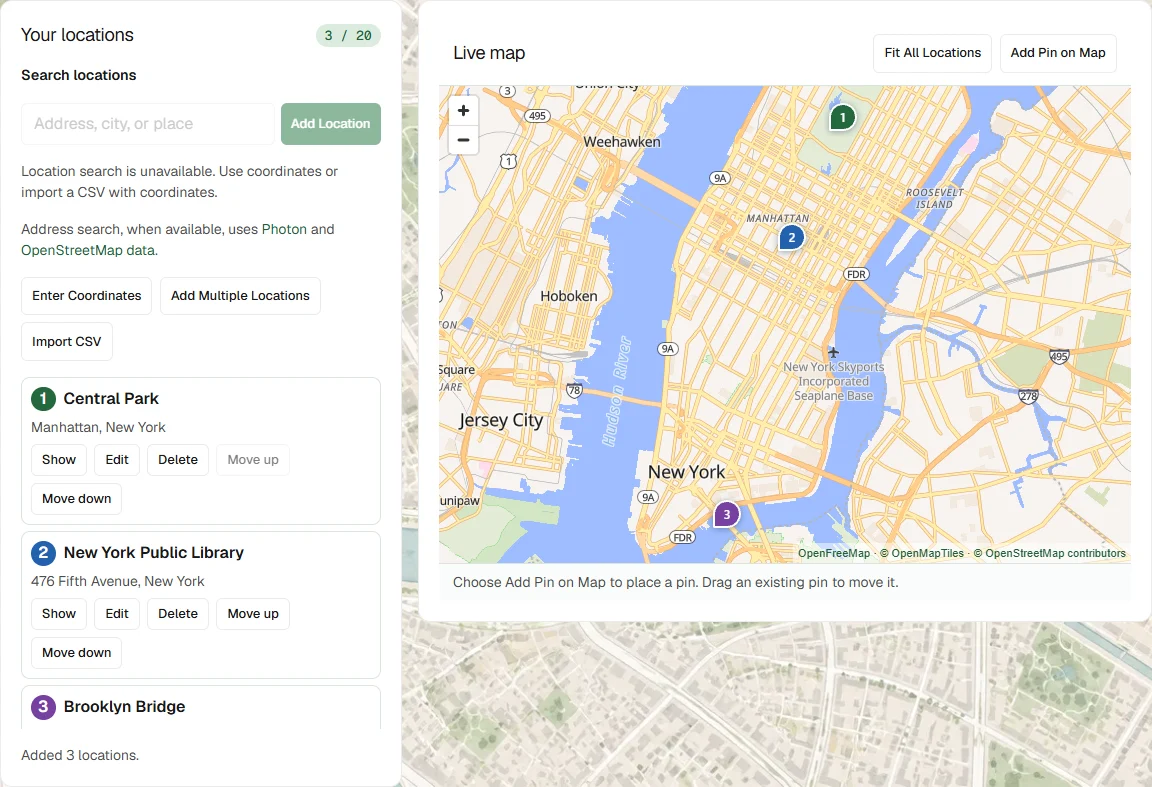
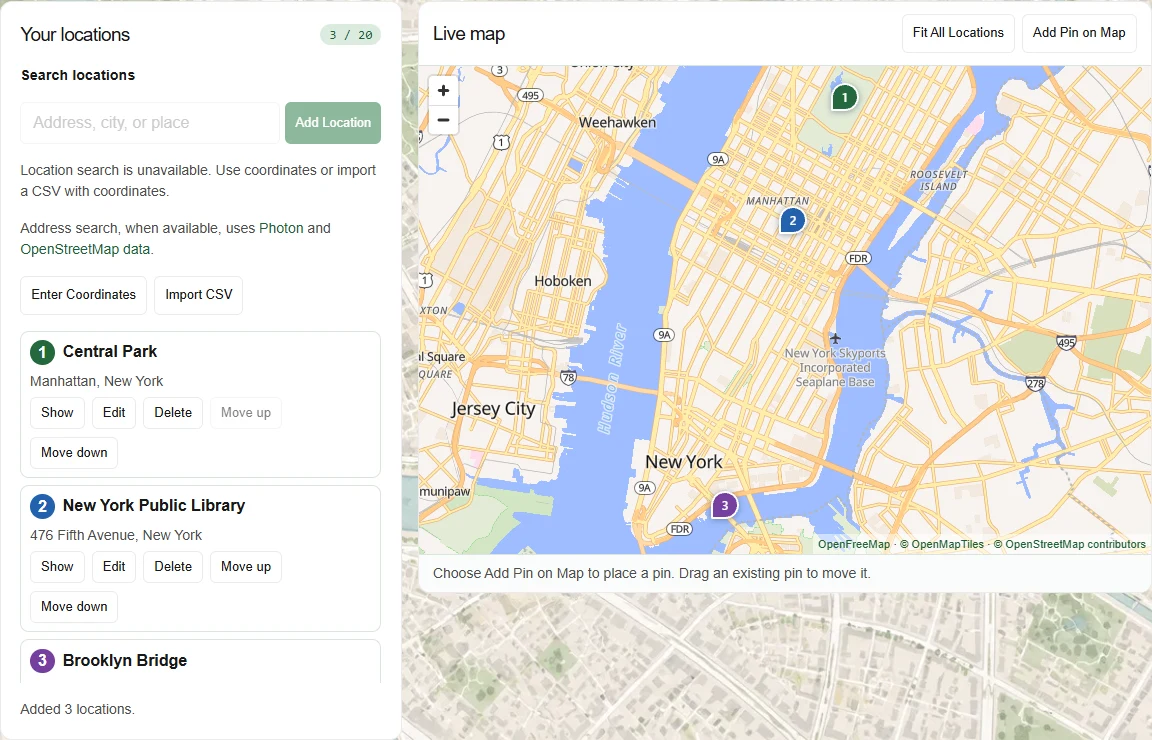
websited adding and manually address adding field removed from multiple map marker page

diff --git a/src/lib/multiple-maps/import-dialog.ts b/src/lib/multiple-maps/import-dialog.ts
@@ -1,7 +1,7 @@
 import type { Locale } from '../../i18n/config';
 import { editorCopy, formatMapMessage } from '../../i18n/map-editor';
 import { ApiError, createGeocoder, reason } from './client';
-import { csvRows, pasteRows, validateRow, type ImportRow } from './imports';
+import { csvRows, validateRow, type ImportRow } from './imports';
 import { markerSchema, MAX_CSV_BYTES, type GeocodeResult, type Marker, type PublicConfig } from './schema';
 
 const get = <T extends HTMLElement = HTMLElement>(id: string) => document.getElementById(`mm-${id}`) as T;
@@ -26,22 +26,8 @@ export function setupImport(geocoder: ReturnType<typeof createGeocoder>, config:
   const run = get<HTMLButtonElement>('run-import');
   const close = get<HTMLButtonElement>('close-import');
   const file = get<HTMLInputElement>('csv-file');
-  const lines = get<HTMLTextAreaElement>('lines');
-  let mode: 'paste' | 'csv';
   let rows: PendingRow[] = [];
   let busy = false;
-
-  function open(kind: typeof mode) {
-    mode = kind;
-    rows = [];
-    form.reset();
-    status.textContent = [formatMapMessage(copy.capacity, { count: capacity() }), config.geocodeBulk ? '' : copy.bulkUnavailable].filter(Boolean).join(' ');
-    get('import-heading').textContent = kind === 'csv' ? copy.csvHeading : copy.bulk;
-    get('csv-fields').hidden = kind !== 'csv';
-    get('paste-fields').hidden = kind !== 'paste';
-    render();
-    dialog.showModal();
-  }
 
   function render() {
     list.replaceChildren();
@@ -101,13 +87,18 @@ export function setupImport(geocoder: ReturnType<typeof createGeocoder>, config:
     run.textContent = rows.some((row) => row.done || row.issue) ? copy.retryRows : copy.addLocations;
   }
 
-  get('bulk').addEventListener('click', () => open('paste'));
-  get('csv').addEventListener('click', () => open('csv'));
+  get('csv').addEventListener('click', () => {
+    rows = [];
+    form.reset();
+    status.textContent = [formatMapMessage(copy.capacity, { count: capacity() }), config.geocodeBulk ? '' : copy.bulkUnavailable].filter(Boolean).join(' ');
+    render();
+    dialog.showModal();
+  });
   dialog.addEventListener('cancel', (event) => { if (busy) event.preventDefault(); });
 
   function setBusy(value: boolean) {
     busy = value;
-    for (const element of [preview, run, close, file, lines]) element.disabled = value;
+    for (const element of [preview, run, close, file]) element.disabled = value;
   }
 
   form.addEventListener('submit', async (event) => {
@@ -115,12 +106,9 @@ export function setupImport(geocoder: ReturnType<typeof createGeocoder>, config:
     if (busy) return;
     setBusy(true);
     try {
-      let values: ImportRow[];
-      if (mode === 'csv') {
-        const input = file.files?.[0];
-        if (!input || input.size > MAX_CSV_BYTES) throw new Error(copy.chooseFile);
-        values = await csvRows(await input.text(), copy);
-      } else values = pasteRows(lines.value);
+      const input = file.files?.[0];
+      if (!input || input.size > MAX_CSV_BYTES) throw new Error(copy.chooseFile);
+      const values = await csvRows(await input.text(), copy);
       const remaining = capacity();
       if (!values.length) throw new Error(copy.needLocation);
       if (values.length > remaining) throw new Error(formatMapMessage(copy.tooManyRows, { count: remaining }));

diff --git a/src/lib/multiple-maps/editor.ts b/src/lib/multiple-maps/editor.ts
@@ -160,7 +160,13 @@ export async function startEditor() {
   markerForm.addEventListener('submit', (event) => {
     event.preventDefault();
     const fields = new FormData(markerForm);
-    const result = markerSchema.safeParse({ ...Object.fromEntries(fields), color: colorSelect.value === 'custom' ? customColor.value : colorSelect.value, lat: coordinate(dataText(fields, 'lat')), lng: coordinate(dataText(fields, 'lng')), website: dataText(fields, 'website') });
+    const result = markerSchema.safeParse({
+      ...Object.fromEntries(fields),
+      color: colorSelect.value === 'custom' ? customColor.value : colorSelect.value,
+      lat: coordinate(dataText(fields, 'lat')),
+      lng: coordinate(dataText(fields, 'lng')),
+      website: editingIndex === undefined ? undefined : markers[editingIndex].website,
+    });
     if (!result.success) {
       byId('marker-error').textContent = copy.invalidMarker;
       return;

diff --git a/src/lib/multiple-maps/imports.ts b/src/lib/multiple-maps/imports.ts
@@ -12,15 +12,6 @@ export interface ImportRow {
   color: string;
 }
 
-const blank = () => ({ title: '', address: '', description: '', latitude: '', longitude: '', color: 'red' });
-
-export function pasteRows(value: string): ImportRow[] {
-  return value.split(/\r?\n/).filter((line) => line.trim()).map((line) => {
-    const [address, ...description] = line.split('|');
-    return { ...blank(), address: address.trim(), description: description.join('|').trim() };
-  });
-}
-
 export async function csvRows(value: string, copy = defaultCopy): Promise<ImportRow[]> {
   const { default: Papa } = await import('papaparse');
   const csv = Papa.parse<Record<string, string>>(value.replace(/^\uFEFF/, ''), {

diff --git a/docs/multiple-location-maps.md b/docs/multiple-location-maps.md
@@ -14,7 +14,7 @@ OpenFreeMap advertises no keys, accounts, or map-view limits for its public inst
 
 ## Address search and CSV
 
-Komoot’s shared Photon demo allows project use within an undefined “reasonable” request volume. It publishes neither a numeric allowance nor approval for the expected production traffic or bulk workloads. It may throttle or block extensive use and gives no availability guarantee. This app rejects the shared demo hostname and defaults to coordinates and map clicks. The fallback keeps bulk paste, CSV preview, partial import, and row editing available. Address-only rows stay in the preview until the user supplies coordinates or retries with authorized lookup enabled. Lookups for an existing location are unnecessary when two valid coordinates are already present.
+Komoot’s shared Photon demo allows project use within an undefined “reasonable” request volume. It publishes neither a numeric allowance nor approval for the expected production traffic or bulk workloads. It may throttle or block extensive use and gives no availability guarantee. With address search disabled, the editor accepts coordinates, map clicks, and CSV files. Address-only CSV rows stay in the preview until the user supplies coordinates or retries with authorized lookup enabled. Lookups for an existing location are unnecessary when two valid coordinates are already present.
 
 Use a Photon instance you operate on existing no-cost infrastructure, or an instance whose operator has explicitly authorized this use, its expected volume, and caching. Komoot can authorize an appropriate deployment for larger traffic if it offers one. Planet-wide Photon runs on Java 21+ and requires substantial disk and memory. The repository documents about 95 GB of disk and recommends at least 64 GB RAM as of 2026. It does not run inside a Pages Function. A regional extract on infrastructure you already have is another option. No hosting for Photon is provisioned by this project. [Photon public-service and hosting documentation](https://github.com/komoot/photon#demo-server) · [Photon search API](https://github.com/komoot/photon/blob/master/docs/api-v1.md)
 
@@ -130,7 +130,7 @@ Address-only use would generate 500–1,000 potential uncached lookups for 100 m
 
 ## SEO and regression scope
 
-The generator page covers free map creation, the editable three-pin example, marker styling, and CSV and bulk entry. The separate first-map walkthrough has its own URL. Cloudflare Pages redirects the three retired articles to their corresponding sections on the generator page with permanent redirects from `public/_redirects`. The homepage and Google My Maps guide retain their canonical URLs. Saved links, viewer shells, and iframe routes stay out of the sitemap. Tutorial images show the migrated renderer. For competitor context, the first version was compared with MapCustomizer’s public editor and help, which document bulk text entry and describe limitations around embedding and clustering. [MapCustomizer FAQ](https://www.mapcustomizer.com/faq)
+The generator page covers free map creation, the editable three-pin example, marker styling, and CSV import. The separate first-map walkthrough has its own URL. Cloudflare Pages redirects the three retired articles to their corresponding sections on the generator page with permanent redirects from `public/_redirects`. The homepage and Google My Maps guide retain their canonical URLs. Saved links, viewer shells, and iframe routes stay out of the sitemap. Tutorial images show the migrated renderer. For competitor context, the first version was compared with MapCustomizer’s public editor and help, which document bulk text entry and describe limitations around embedding and clustering. [MapCustomizer FAQ](https://www.mapcustomizer.com/faq)
 
 ## Migration files and verification
 
